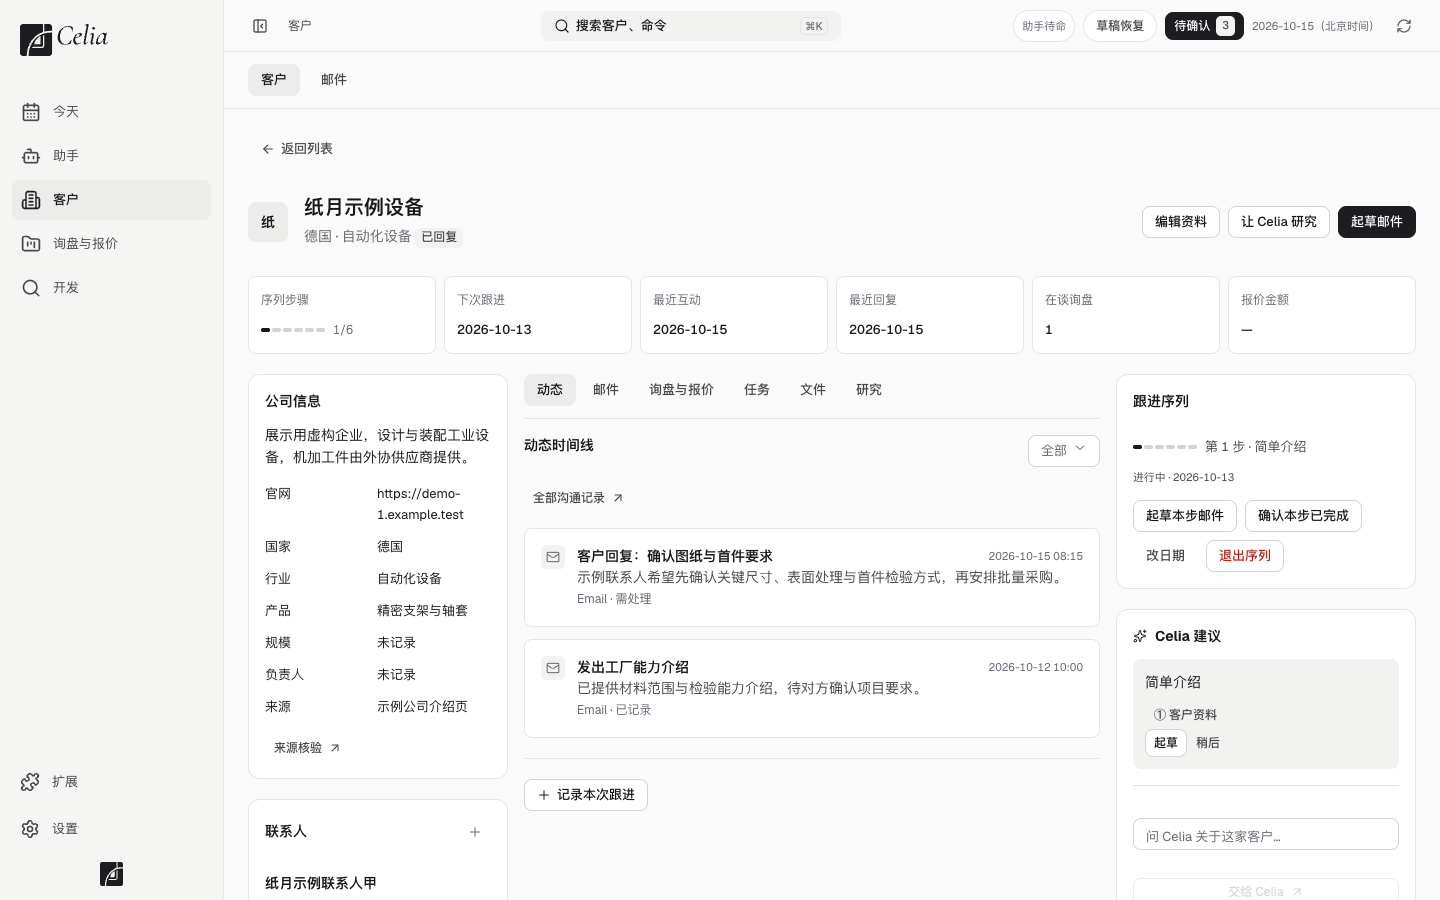
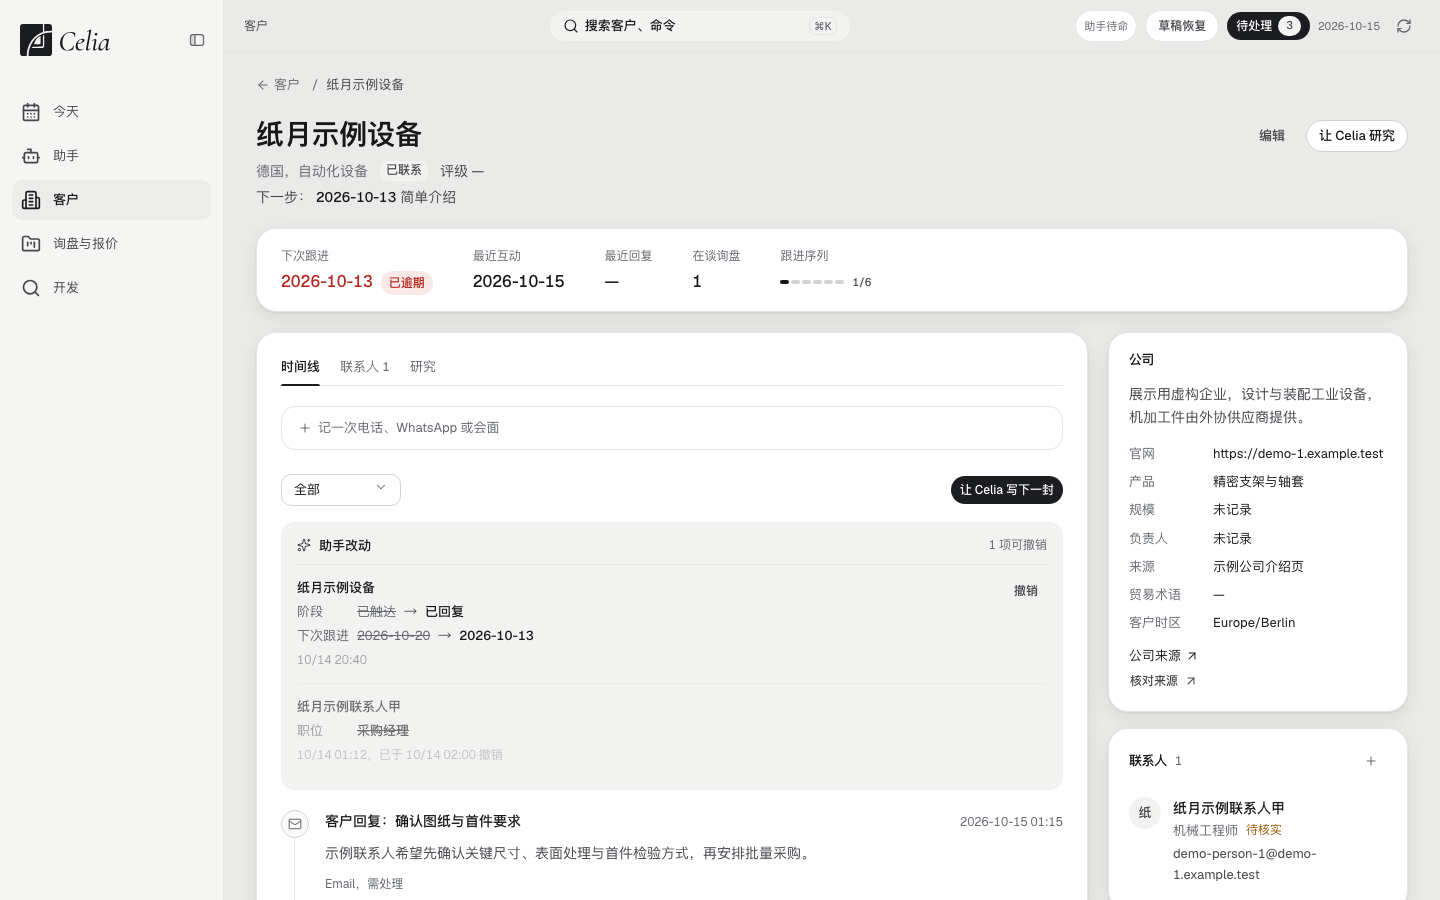
guide: 0.0.9.22 — customers in two levels, one timeline, quote replies list what is missing

diff --git a/guide/04-customers.md b/guide/04-customers.md
@@ -1,6 +1,6 @@
 # 4. 客户与联系人
 
-> 适用版本：0.0.9.17 · 更新：2026-11-16 · [返回目录](../GUIDE.md)
+> 适用版本：0.0.9.22 · 更新：2026-11-24 · [返回目录](../GUIDE.md)
 
 **目的**：把客户和联系人都管在一个地方，每家客户的来往一目了然。
 **什么时候用**：新增客户、导入名单、找某家客户、查看客户历史。
@@ -112,15 +112,17 @@
 
 在列表里点一家客户。
 
-<p align="center"><img src="../assets/screenshots/graphite-customer-detail.png" alt="客户详情：公司信息、动态时间线、跟进序列和 Celia 建议" width="860"></p>
+<p align="center"><img src="../assets/screenshots/graphite-customer-detail.png" alt="客户详情：头部写下一步，中间一条时间线，右栏是公司、联系人、询盘与报价、待办" width="860"></p>
 
 | 位置 | 内容 |
 |---|---|
-| 顶部数字卡 | 序列进度、下次跟进、最近互动、最近回复、在谈询盘、报价金额 |
-| 左边 | 公司信息、前 3 位联系人。点「查看全部」进「联系人」标签 |
-| 中间 | **动态时间线**：邮件、回复、跟进记录、研究按时间排在一起。上面的标签可以只看联系人、邮件、询盘与报价、任务、文件、研究 |
-| 右边 | 跟进序列、Celia 建议、向 Celia 提问这位客户 |
-| 右上角按钮 | 编辑资料、让 Celia 研究、起草邮件 |
+| 头部 | 公司名、国家、阶段，下面一行写**下一步**（最早的待办，没有待办就是询盘的下一步或下次跟进日期） |
+| 数字卡 | 下次跟进、最近互动、最近回复、在谈询盘、跟进序列进度 |
+| 中间 | 三个标签：**时间线 / 联系人 / 研究**。时间线把邮件、回复、电话记录、待办和 Celia 写的草稿按时间排在一起，左上角的下拉框可以只看某一种 |
+| 右栏 | 公司（含来源链接）、联系人、**询盘与报价**、**待办**（＋ 新加一条，「调整」改日期或内容）、跟进序列、Celia 建议、向 Celia 提问这位客户 |
+| 右上角按钮 | 编辑、让 Celia 研究 |
+
+0.0.9.22 起客户区只有两层：客户列表，点进去就是这家客户。原来客户区上面的「新找到的联系人」搬到了 **开发 → 新找到的联系人**，「邮件」记录页搬到了 **设置 → 连接 → 已存邮件**；旧链接照常能打开。
 
 ### 联系人
 
@@ -130,7 +132,11 @@
 
 ### 记录一次跟进
 
-电话、微信、展会上聊的内容，在动态时间线下方点 **记录本次跟进**，写下结果和下一步。
+电话、WhatsApp、展会上聊的内容，在时间线最上面点 **记一次电话、WhatsApp 或会面**，选渠道（默认电话），写下结果和下一步。
+
+### 让 Celia 写下一封
+
+时间线右上角点 **让 Celia 写下一封**，这件事会交给助手：助手先看这家客户的时间线，再起草下一封邮件，只写不发。
 
 ---
 

diff --git a/guide/05-assistant.md b/guide/05-assistant.md
@@ -1,6 +1,6 @@
 # 5. 让助手工作
 
-> 适用版本：0.0.9.21 · 更新：2026-11-24 · [返回目录](../GUIDE.md)
+> 适用版本：0.0.9.22 · 更新：2026-11-24 · [返回目录](../GUIDE.md)
 
 **目的**：把研究客户、找联系人、写邮件这些费时的事交给助手，你只负责定方向和看结果。
 **什么时候用**：开发新客户、准备跟进邮件、整理询盘。
@@ -168,7 +168,7 @@
    4. 都没有，就用采购部或公司的通用邮箱，有供应商门户的记下门户。
 
    从第三方网站看到的人也标「待核实（第三方来源）」。找不到的会写明「没找到」。
-3. 助手存进客户库的人，会出现在 **客户 → 新找到的联系人**（0.0.9.12 起）。在这一页逐个看：保留、修改、删除，或者和同名的人合并。「保留」只表示你看过，不会把「待核实」改成已核实。
+3. 助手存进客户库的人，会出现在 **开发 → 新找到的联系人**（0.0.9.22 起；以前在客户区）。在这一页逐个看：保留、修改、删除，或者和同名的人合并。「保留」只表示你看过，不会把「待核实」改成已核实。
 
 联系方式分类型：邮箱、电话、供应商门户（要在客户网站上注册才能报价的）、转发邮箱。海外分公司的联系方式不会记到总公司名下。
 
@@ -190,7 +190,7 @@
 1. 右上角点 **起草邮件**，或者在跟进序列里点「起草本步邮件」。
 2. 助手会参考：这家客户的资料和研究、业务记忆里的「开发信写法」和「工厂能力」（见第八节）、往来记录。
    - 信里写到工厂能力（材料、精度、认证、交期、起订量等）时，助手先查你填的工厂档案，只按档案里填了的内容写，用客户的语言写进正文。档案里空着的项，它不会替你编。
-3. 助手写好后放进今天页等你过目，你点发送才发出；发出的邮件记在客户时间线和「客户 → 邮件」里。打开了「助手直接发送」时会直接发出，想先看草稿就在要求里说「先写给我看，别发」。
+3. 助手写好后放进今天页等你过目，你点发送才发出；发出的邮件记在客户时间线里，也能在 **设置 → 连接 → 已存邮件** 里看到。打开了「助手直接发送」时会直接发出，想先看草稿就在要求里说「先写给我看，别发」。
 
 **方法二：直接说**
 > 给 某某公司 的采购起草第一封开发信，只讲我们的 5 轴 CNC 铝件能力，100 字以内。

diff --git a/guide/03-daily.md b/guide/03-daily.md
@@ -1,6 +1,6 @@
 # 3. 每日工作流程
 
-> 适用版本：0.0.9.19 · 更新：2026-11-23 · [返回目录](../GUIDE.md)
+> 适用版本：0.0.9.22 · 更新：2026-11-24 · [返回目录](../GUIDE.md)
 
 **目的**：每天固定按一套顺序处理，不漏跟进、不漏回复。
 **什么时候用**：每天上班打开 Celia 时。大约 20–40 分钟，看客户量。
@@ -27,7 +27,7 @@
 
 0.0.9.19 起，今天要你看的事按先后排成一列，每块一张卡片，没有的那块不显示：
 
-1. **客户回信**：客户回了邮件，Celia 认出是哪家客户，读过原信，写好回复草稿。点开看客户原信和草稿，看过再发；客户要报价的，可以点 **转成询盘**；
+1. **客户回信**：客户回了邮件，Celia 认出是哪家客户，读过原信，写好回复草稿。点开看客户原信和草稿，看过再发；客户要报价的，回信卡上会写出这封信**还缺**哪几项（图纸版本、材料、数量、公差、表面处理、交期、认证），以及客户要求里「我的工厂」**没写到**的地方；点 **转成询盘**，询盘的下一步就写成「补问：……」，回复草稿就是那封补问信；
 2. **新询盘**：材料、数量、公差、表面处理、图纸都列在卡片里；
 3. **今天该跟进**：上面是 **今天准备好的草稿**（打开了每日跟进时，见下面），下面是今天到期的客户和他们在跟进序列里走到第几步，逾期的标红；
 4. **等你过目的信**：交了开发任务后写好的开发信，见下面；
@@ -83,7 +83,7 @@
 2. **缺联系渠道的客户**：要跟进却没有邮箱或领英。到客户详情里补上，或者让助手「帮我找 某公司 采购或工程负责人的联系方式」。
 3. **中断的任务**：助手做到一半停了，比如连续出错。看清原因后选 **继续：放入输入框**（把原来的要求放回输入框，由你发出）、**只保留已完成** 或 **放弃**。
 
-> 想先看看助手发了什么：每封邮件和私信都会记在客户时间线和「客户 → 邮件」里，包括正文和发送回执。
+> 想先看看助手发了什么：每封邮件和私信都会记在客户时间线里；所有已存的草稿和发送回执也可以在 **设置 → 连接 → 已存邮件** 里看。
 >
 > 想让助手先停下：设置 → 助手 → 工作方式 →「暂停助手」，见[首次设置](02-setup.md#四暂停助手)。
 

diff --git a/guide/10-changes.md b/guide/10-changes.md
@@ -1,8 +1,22 @@
 # 10. 版本变化
 
-> 适用版本：0.0.9.21 · 更新：2026-11-24 · [返回目录](../GUIDE.md)
+> 适用版本：0.0.9.22 · 更新：2026-11-24 · [返回目录](../GUIDE.md)
 
 每个版本的完整说明在[发布页](https://github.com/Scorpioxyb/celia/releases)。这里只记录**和日常操作有关的变化**，以及**指南里哪些章节跟着改了**。
+
+---
+
+## 0.0.9.22（2026-11，快速更新）
+
+自动下载，重启 Celia 后生效。资料不变。
+
+**操作上的变化：**
+- **客户只剩两层**：客户列表，点进去就是这家客户。「新找到的联系人」搬到 **开发 → 新找到的联系人**；「邮件」记录页搬到 **设置 → 连接 → 已存邮件**。旧链接照常能打开。
+- **客户档案改成一条时间线**：标签只剩 时间线 / 联系人 / 研究。邮件、回复、电话记录、待办和 Celia 的草稿排在一起；最上面能 **记一次电话、WhatsApp 或会面**，右上角能 **让 Celia 写下一封**。询盘与报价、待办挪到右栏，头部写明下一步。原来的「任务」「文件」「邮件」「询盘与报价」标签去掉了，来源链接放在右栏「公司」里。
+- **客户回信要报价时列出还缺什么**：Celia 分类时记下这封信还缺哪几项（图纸版本、材料、数量、公差、表面处理、交期、认证），以及客户要求里「我的工厂」没写到的地方；今天页回信卡上能看到。转成询盘后，下一步写成「补问：……」，备注里列出缺项和对不上的地方。
+- 修好：同一个人的两封回信写出一模一样的回复草稿时，第二封会一直停在「待分类」。
+
+**指南跟着改了：** [每日工作流程](03-daily.md)「客户回信」、[客户与联系人](04-customers.md)第四节、[让助手工作](05-assistant.md)新找到的联系人和发信两处。
 
 ---
 
